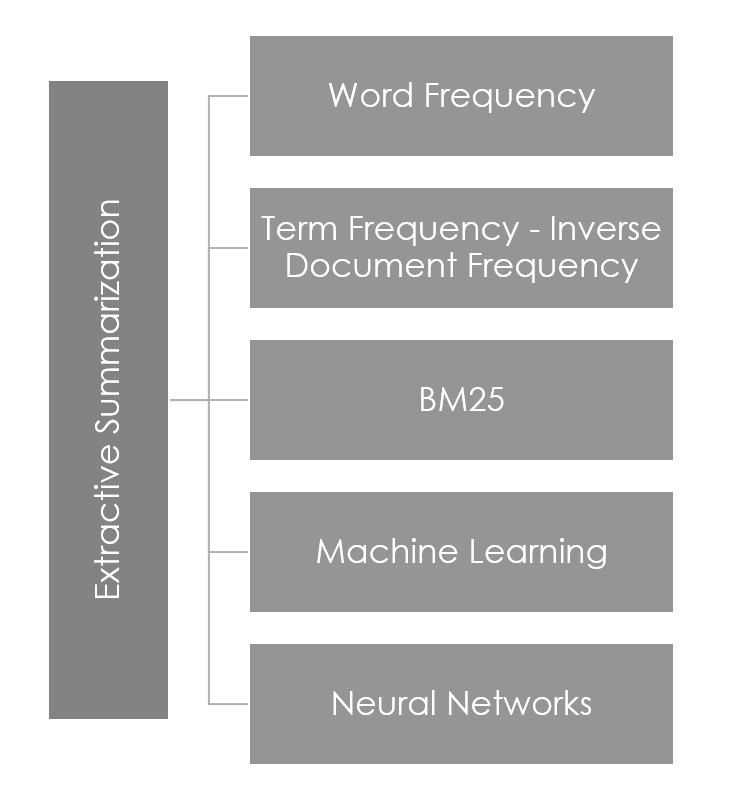
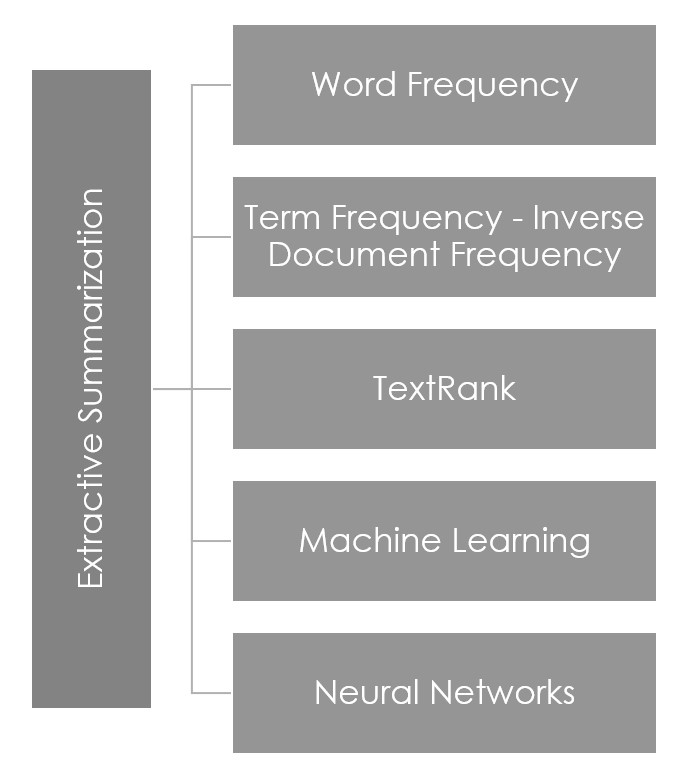
Exception handling in get_f1_score for TextRank

diff --git a/get_f1_score.py b/get_f1_score.py
@@ -2,14 +2,19 @@ import web_scraping_prototype as WSP
 import auto_summarization as autosum
 from tf_idf import tf_idf_summarise
 from word_freq import word_freq_summarize
+from gensim.summarization.summarizer import summarize
 import summary_evaluation as sumeval
 
 def main():
-    articles = WSP.aljazeera_search('iphone')
+    articles = WSP.aljazeera_search('chandrayaan')
     print(len(articles))
     for article in articles:
-        ref_sum = autosum.get_summary(article)
-        sys_sum = word_freq_summarize(article)
+        try:
+            ref_sum = autosum.get_summary(article)
+            sys_sum = summarize(article)
+        except:
+            continue
+        # sys_sum = word_freq_summarize(article)
         # sys_sum = tf_idf_summarise(article)
         matching_bigrams, precision, recall, f_measure = sumeval.rouge(ref_sum, sys_sum)
         #print('Ref Sum:',ref_sum,'\nSys Sum:',sys_sum)
